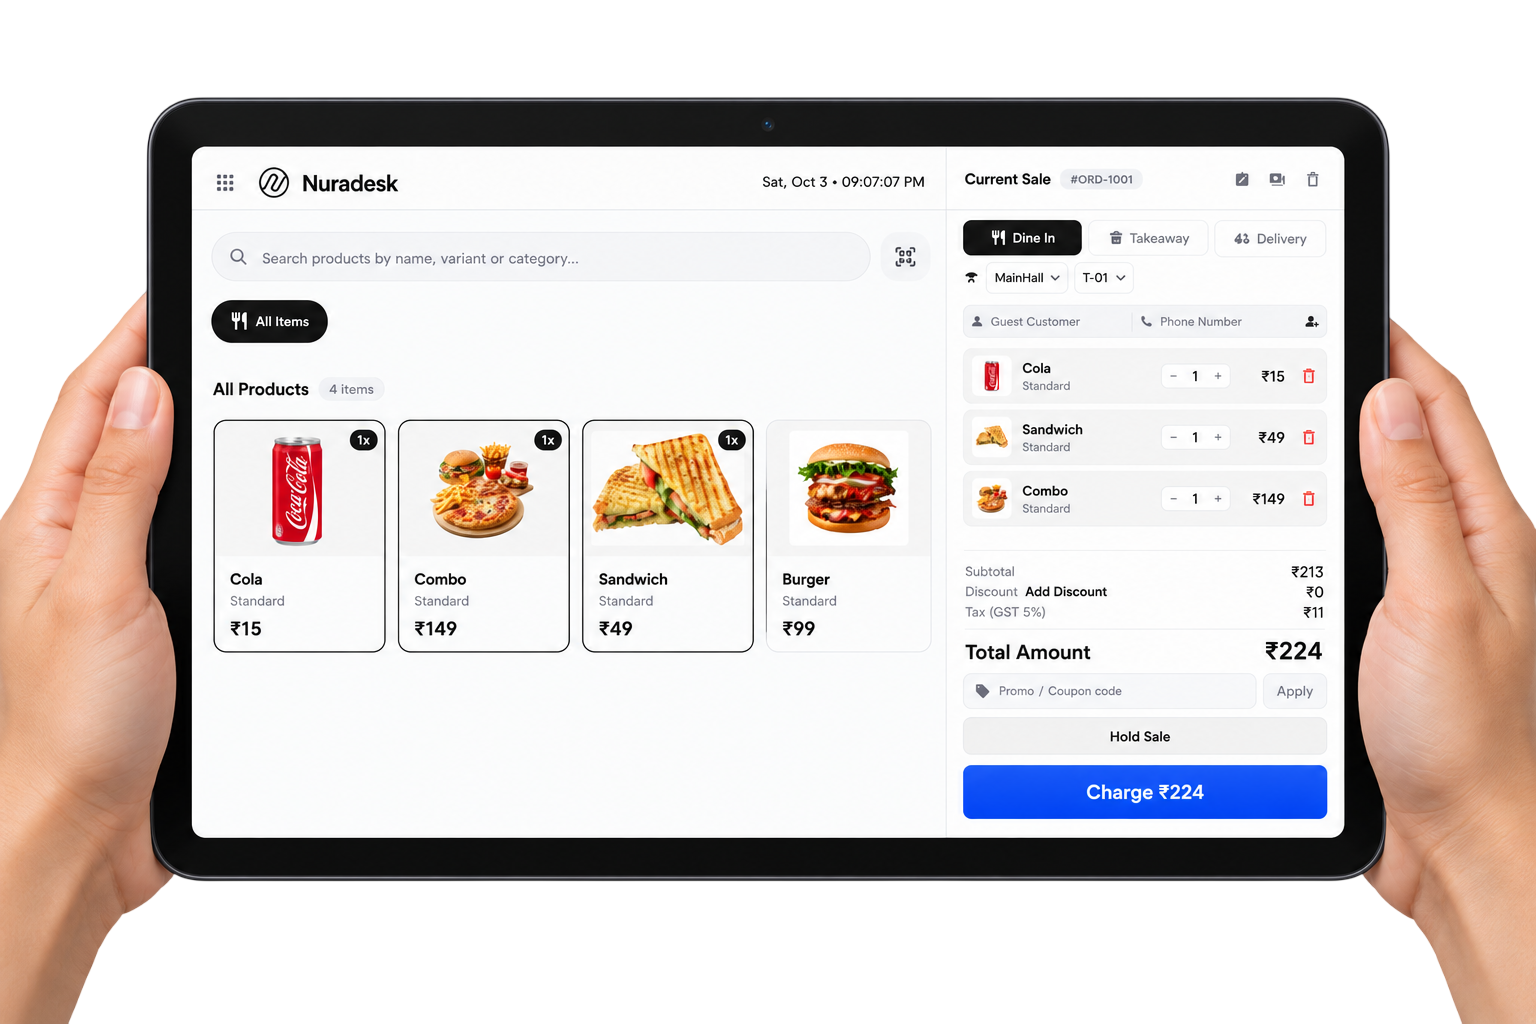
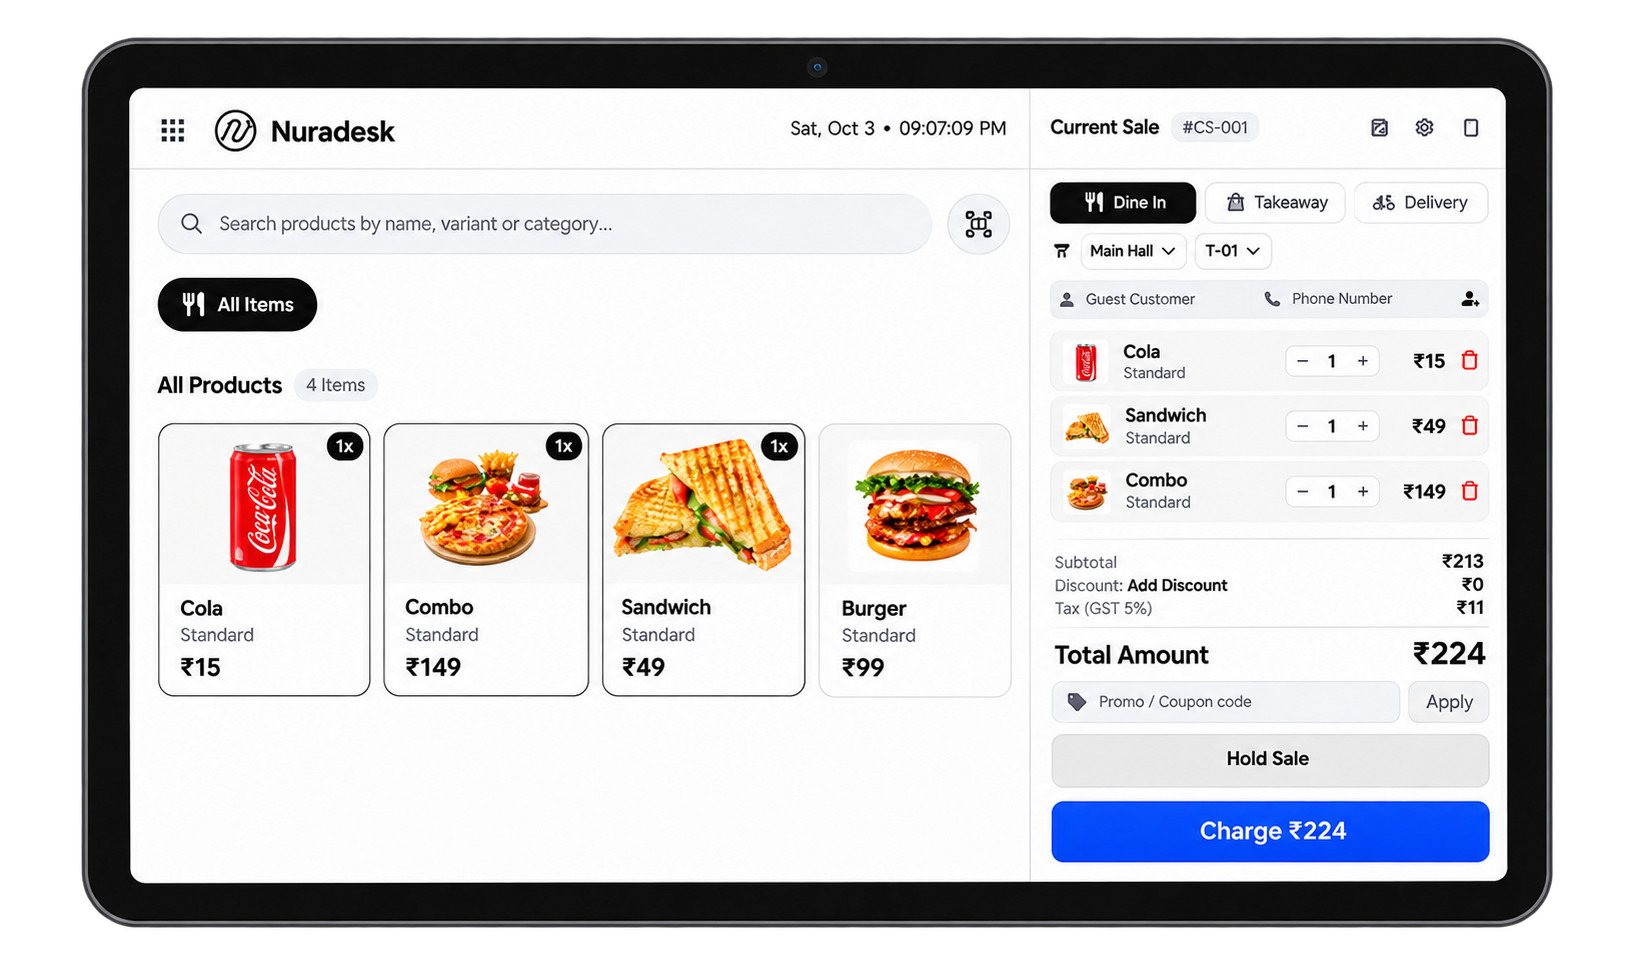
new hero section update

diff --git a/src/components/Hero.tsx b/src/components/Hero.tsx
@@ -6,16 +6,11 @@ import Link from 'next/link';
 import heroBg from '../hero/herobackground.png';
 
 export default function Hero() {
-  const videoRef = useRef<HTMLVideoElement | null>(null);
-  const videoContainerRef = useRef<HTMLDivElement | null>(null);
+  const previewContainerRef = useRef<HTMLDivElement | null>(null);
 
   const handleSeeDemo = () => {
-    if (videoContainerRef.current) {
-      videoContainerRef.current.scrollIntoView({ behavior: 'smooth', block: 'center' });
-    }
-    if (videoRef.current) {
-      videoRef.current.muted = false;
-      videoRef.current.play().catch(() => {});
+    if (previewContainerRef.current) {
+      previewContainerRef.current.scrollIntoView({ behavior: 'smooth', block: 'center' });
     }
   };
 
@@ -165,40 +160,34 @@ export default function Hero() {
           </button>
         </div>
 
-        {/* Video preview: balanced compact size */}
+        {/* Hero preview image: transparent cutout without white background container */}
         <div
-          ref={videoContainerRef}
+          ref={previewContainerRef}
           style={{
             marginTop: '40px',
             width: '100%',
             maxWidth: '980px',
-            aspectRatio: '1216 / 496',
-            borderRadius: '18px',
-            overflow: 'hidden',
             position: 'relative',
-            backgroundColor: '#D9D9D9',
+            backgroundColor: 'transparent',
             boxSizing: 'border-box',
             display: 'flex',
             alignItems: 'center',
             justifyContent: 'center',
-            boxShadow: '0 12px 36px rgba(0, 0, 0, 0.08), 0 4px 12px rgba(0, 0, 0, 0.04)',
           }}
         >
-          <video
-            ref={videoRef}
-            src="/video/hero.mp4"
-            poster="/hero/hero.png"
-            autoPlay
-            muted
-            loop
-            playsInline
-            controls
+          <Image
+            src="/hero/hero.png"
+            alt="Nuradesk POS Preview"
+            width={1633}
+            height={963}
+            priority
+            quality={95}
+            sizes="(max-width: 980px) 100vw, 980px"
             style={{
               width: '100%',
-              height: '100%',
-              objectFit: 'cover',
-              borderRadius: '18px',
+              height: 'auto',
               display: 'block',
+              filter: 'drop-shadow(0 20px 35px rgba(0, 0, 0, 0.08))',
             }}
           />
         </div>
